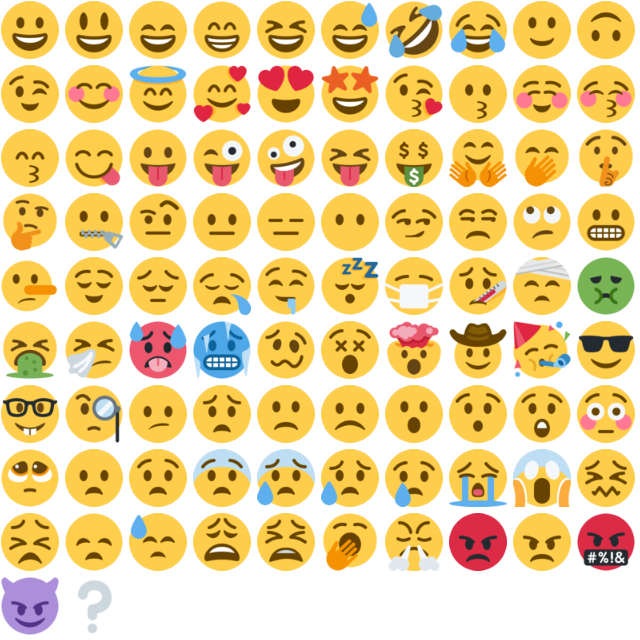
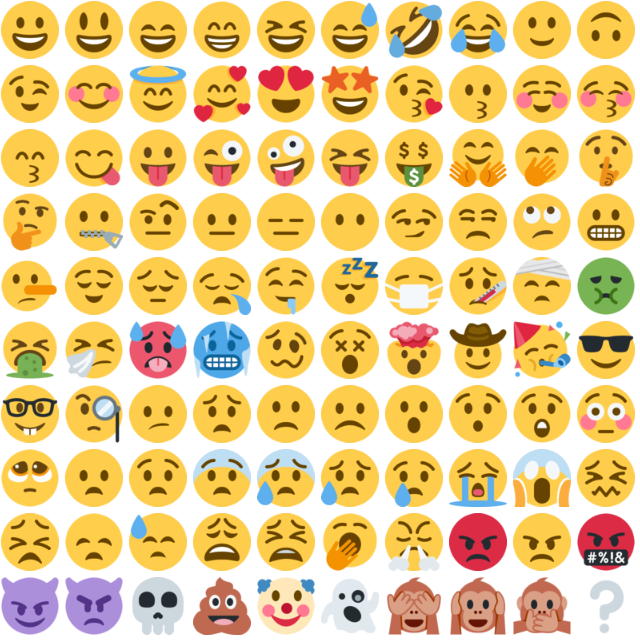
feat: 14x14 and more emojis

Changed region(s): [[0.0938, 0.9062, 0.9062, 1.0], [0.9062, 0.9062, 0.9688, 1.0]]

diff --git a/src/scenes/modals/settings.ts b/src/scenes/modals/settings.ts
@@ -7,7 +7,9 @@ export default class ModalSettings extends ModalBase {
     { text: '4x4', value: 4 },
     { text: '6x6', value: 6 },
     { text: '8x8', value: 8 },
-    { text: '10x10', value: 10 }
+    { text: '10x10', value: 10 },
+    { text: '12x12', value: 12 },
+    { text: '14x14', value: 14 }
   ]
   private static readonly SPEED = [
     { text: 'beginner', value: 1500 },
@@ -15,6 +17,7 @@ export default class ModalSettings extends ModalBase {
     { text: 'advanced', value: 700 },
     { text: 'pro', value: 400 }
   ]
+  private static readonly FONT_SIZE = 22
   private sizeOptions: Options
   private speedOptions: Options
 
@@ -22,14 +25,14 @@ export default class ModalSettings extends ModalBase {
     super({
       key: 'ModalSettings',
       width: 300,
-      height: 330
+      height: 350
     })
   }
 
   onCreated () {
     const sizeLabel = this.add.text(0, 0, 'Tiles', {
       fill: '#000000',
-      fontSize: 30
+      fontSize: ModalSettings.FONT_SIZE
     })
 
     this.sizeOptions = new Options({
@@ -37,30 +40,30 @@ export default class ModalSettings extends ModalBase {
       values: ModalSettings.SIZES,
       style: {
         width: 80,
-        fontSize: 30
+        fontSize: ModalSettings.FONT_SIZE
       }
     })
 
     const speedLabel = this.add.text(0, 0, 'Timer\nspeed', {
       fill: '#000000',
-      fontSize: 30
+      fontSize: ModalSettings.FONT_SIZE
     })
 
     this.speedOptions = new Options({
       scene: this,
       values: ModalSettings.SPEED,
       style: {
-        width: 100,
-        fontSize: 30
+        width: 60,
+        fontSize: ModalSettings.FONT_SIZE
       }
     })
 
     // TODO: Figure out why the options are going one step lower when width is specified.
     this.modal.add([sizeLabel, this.sizeOptions, speedLabel, this.speedOptions])
     Phaser.Display.Align.In.TopLeft(sizeLabel, this.body, -30, -30)
-    Phaser.Display.Align.In.TopLeft(speedLabel, this.body, -30, -124)
+    Phaser.Display.Align.In.TopLeft(speedLabel, this.body, -30, -144)
     Phaser.Display.Align.In.TopCenter(this.sizeOptions, this.body, 0, 10)
-    Phaser.Display.Align.In.TopCenter(this.speedOptions, this.body, 0, -85)
+    Phaser.Display.Align.In.TopCenter(this.speedOptions, this.body, 0, -105)
   }
 
   onShown ({ size, speed }) {

diff --git a/src/scenes/stage.ts b/src/scenes/stage.ts
@@ -5,7 +5,7 @@ import LevelMain from '../levels/main'
 export default class Stage extends Phaser.Scene {
   private static readonly MARGIN = 20
   private static readonly TILESIZE = 64
-  private static readonly LAST_FRAME = 91
+  private static readonly LAST_FRAME = 99
   private level: LevelMain
   private size: number
   private speed: number
@@ -78,17 +78,17 @@ export default class Stage extends Phaser.Scene {
       this.group = this.add.group()
     }
 
-    const tilesCount = Stage.LAST_FRAME - 1
+    const tilesCount = Stage.LAST_FRAME
     const tiles = []
     const allTiles = Array.from({length: tilesCount}, (v, i) => i)
     const maxUniqueTilesCount = Math.pow(this.size, 2) / 2
 
     while (allTiles.length > tilesCount - maxUniqueTilesCount) {
       let pairCount = 2
-      const randomTileIdx = Math.floor(Math.random() * allTiles.length - 1)
+      const randomTileIdx = Math.floor(Math.random() * (allTiles.length - 1))
       const randomTile = allTiles[randomTileIdx]
       while (pairCount) {
-        const randomShuffledIdx = Math.floor(Math.random() * tiles.length - 1)
+        const randomShuffledIdx = Math.floor(Math.random() * (tiles.length - 1))
         tiles.splice(randomShuffledIdx, 0, randomTile)
         pairCount--
       }

diff --git a/src/scenes/ui.ts b/src/scenes/ui.ts
@@ -84,6 +84,10 @@ export default class UI extends Phaser.Scene {
       this.timer.remove()
     }
 
+    if (!this.speed) {
+      return
+    }
+
     const totalTime = (this.maxScore - (this.score * 2)) * this.speed
     this.timer = this.time.delayedCall(totalTime, () => {
       this.modal.events.emit('show', {
